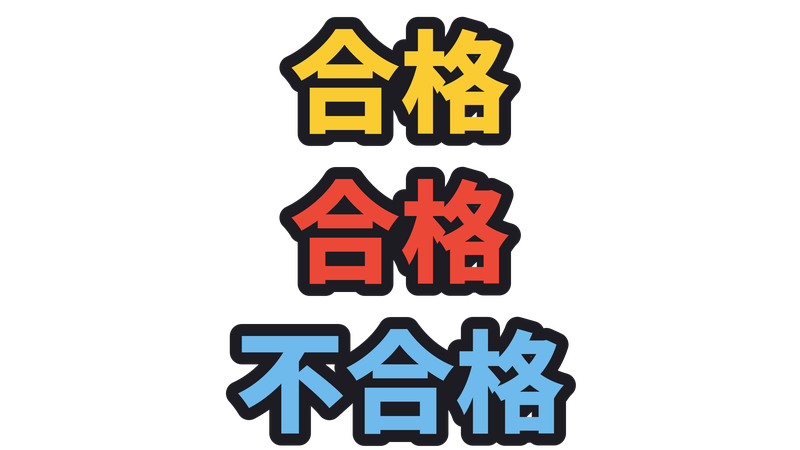
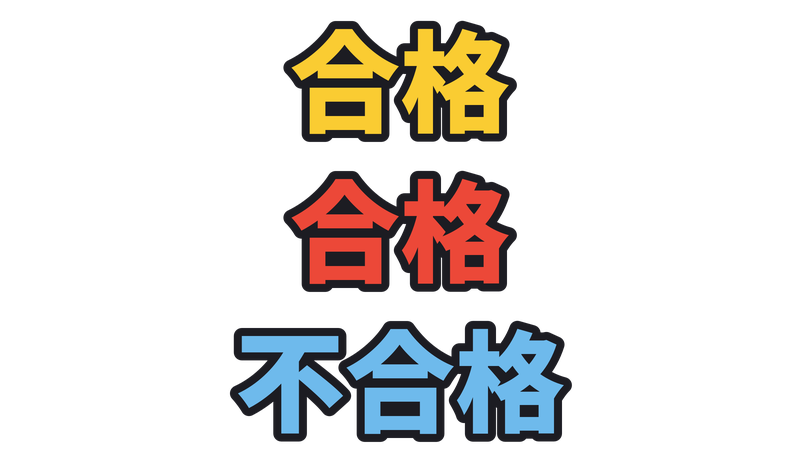
段位道場：文字の縁を本家に合わせて細くする（0.22 → 0.08、ふすまの曲名は 0.1）
本家の六段の動画で、白い字から黒い縁の外がわまでを測りなおした。
条件「346 未満」約0.06倍・バーの数字 約0.055倍・レーンの曲名 約0.095倍。
シンプルの段位の画像（数字・合格・達成失敗・段位道場の札など）の縁も同じくらいに細くした。

Claude-Session: https://claude.ai/code/session_01DAU9tpBiF8CGAJXqk8DqYG

diff --git a/tools/skin-gen/dan.py b/tools/skin-gen/dan.py
@@ -102,7 +102,7 @@ def rainbow_strip(w, h, offset, sat=0.55):
 def song_ball(c, cx, cy, r, k, size=None):
     """1st/2nd/3rd の色玉"""
     c.circle(cx, cy, r, fill=rgba(SONG_COLORS[k]), outline=WHITE, width=max(2, r * 0.1))
-    c.text(cx, cy + 1, ['1st', '2nd', '3rd'][k], size or r * 0.95, fill=WHITE, stroke=max(2, r * 0.12), stroke_fill=INKA)
+    c.text(cx, cy + 1, ['1st', '2nd', '3rd'][k], size or r * 0.95, fill=WHITE, stroke=max(2, r * 0.08), stroke_fill=INKA)
 
 def coin(c, cx, cy, r):
     """条件のコイン(シンプル：黄色い丸に白い点)"""
@@ -146,7 +146,7 @@ def stamps():
             for i in range(8):
                 a = i / 8 * math.tau
                 c.circle(cx + math.cos(a) * 31, 39 + math.sin(a) * 31, 3, fill=hsv(i / 8, 0.6, 1.0))
-        c.text(cx, 40, '合格', 24, fill=rgba(rings[k]), stroke=3, stroke_fill=WHITE)
+        c.text(cx, 40, '合格', 24, fill=rgba(rings[k]), stroke=2, stroke_fill=WHITE)
     c.save(SEL + 'Stamp.png')
 
 def panel():
@@ -335,8 +335,8 @@ def rainbow_digits(rel, w, h, size, stroke):
 def disqualify_text():
     """「達成失敗」972×86 が2つ（大きいバー用・小さいバー用）"""
     c = Canvas(972, 172)
-    c.text(486, 43, '達成失敗', 60, fill=(236, 60, 50, 255), stroke=7, stroke_fill=WHITE)
-    c.text(322, 129, '達成失敗', 60, fill=(236, 60, 50, 255), stroke=7, stroke_fill=WHITE)
+    c.text(486, 43, '達成失敗', 60, fill=(236, 60, 50, 255), stroke=5, stroke_fill=WHITE)
+    c.text(322, 129, '達成失敗', 60, fill=(236, 60, 50, 255), stroke=5, stroke_fill=WHITE)
     c.save(GAME + 'ConditionPanel/Disqualify_Text.png')
 
 def mini_position():
@@ -363,16 +363,16 @@ def course_symbol():
     """左のパネルの「段位道場」マーク 136×136"""
     c = Canvas(136, 136)
     c.poly([(68, 6), (112, 50), (68, 94), (24, 50)], fill=(214, 72, 58, 255), outline=INKA, width=5)
-    c.text(68, 51, '段', 40, fill=WHITE, stroke=4, stroke_fill=INKA)
-    c.text(68, 118, '段位道場', 25, fill=WHITE, stroke=4, stroke_fill=INKA)   # A-Style も絵の下に字が入っている
+    c.text(68, 51, '段', 40, fill=WHITE, stroke=3, stroke_fill=INKA)
+    c.text(68, 118, '段位道場', 25, fill=WHITE, stroke=2, stroke_fill=INKA)   # A-Style も絵の下に字が入っている
     c.save(GAME + 'MiniTaiko/CourseSymbol.png')
 
 def end_text():
     """最後の字 800×150 が3つ：金の合格・赤の合格・不合格"""
     c = Canvas(800, 450)
-    c.text(400, 75, '合格', 110, fill=(250, 204, 50, 255), stroke=12, stroke_fill=INKA)
-    c.text(400, 225, '合格', 110, fill=(236, 72, 56, 255), stroke=12, stroke_fill=INKA)
-    c.text(400, 375, '不合格', 110, fill=(110, 186, 236, 255), stroke=12, stroke_fill=INKA)
+    c.text(400, 75, '合格', 110, fill=(250, 204, 50, 255), stroke=8, stroke_fill=INKA)
+    c.text(400, 225, '合格', 110, fill=(236, 72, 56, 255), stroke=8, stroke_fill=INKA)
+    c.text(400, 375, '不合格', 110, fill=(110, 186, 236, 255), stroke=8, stroke_fill=INKA)
     c.save(GAME + 'End/Text.png')
 
 def screen():
@@ -399,12 +399,14 @@ def screen():
         c2.circle(kx, 97, 17, fill=(150, 118, 62, 255)); c2.circle(kx, 97, 14, fill=(196, 162, 92, 255)); c2.circle(kx, 97, 10, fill=(58, 40, 26, 255))
     c2.save(GAME + 'Screen.png')
 
+# 文字の縁（stroke）は 11/5 に本家の割合（文字の大きさの約0.06〜0.08倍）に合わせて細くした。
+#   本家の六段の動画で、条件「346 未満」は約0.06倍、バーの数字は約0.055倍だった（前は0.1〜0.16倍で太すぎ）
 def dan_screens():
     mini_plates(); plate_effect(); plate_arrow(); stamps(); panel(); panel_side(); song_bars(); course_symbols()
     condition_bar(); gauge_condition_bar(); condition_content(); confirm()
     condition_panel_background(); condition_row_base(); contexts(); mini_contexts(); gauge_bases(); gauge_fills()
-    rainbow_digits(GAME + 'ConditionPanel/Large_Gauge_Number.png', 80, 100, 92, 7)
-    rainbow_digits(GAME + 'ConditionPanel/Mini_Gauge_Number.png', 30, 38, 34, 3)
+    rainbow_digits(GAME + 'ConditionPanel/Large_Gauge_Number.png', 80, 100, 92, 5)
+    rainbow_digits(GAME + 'ConditionPanel/Mini_Gauge_Number.png', 30, 38, 34, 2)
     disqualify_text(); mini_position(); gauge_plate(); course_symbol(); end_text(); screen()
 
 def run():

diff --git a/TaikoSim/UI/MenuDraw.cs b/TaikoSim/UI/MenuDraw.cs
@@ -43,8 +43,14 @@ namespace TaikoSim.UI
         //   (縁が細いと、白い字がうすく・灰色っぽく見える)
         public const float OutlineRatio = 0.16f;
 
-        // 段位道場の画面だけ、縁をもっと太くする(11/5 たけらい。本家の六段の動画で「346 未満」の縁が約0.22倍だった)
-        public const float DanOutlineRatio = 0.22f;
+        // 段位道場の画面の縁（ふだんより細い）
+        //   11/5 たけらい「太すぎ」。本家の六段の動画（2026-11-05_09-32-24.mp4）を、白い字から黒い縁の外がわまでの距離で測りなおした：
+        //     条件「346 未満」(300秒) … 字の高さ50px に縁3px → 文字の大きさの約0.06倍
+        //     バーの数字 … 高さ110px に縁8px → 約0.055倍
+        //     レーンの曲名「MATSURI D/A」(154.5秒) … 大文字の高さ50px に縁6.3px → 約0.095倍（DanTitleOutlineRatio）
+        //   （前に 0.22 にしたのは測りまちがい。縁のまわりのうすい影まで数えていた）
+        public const float DanOutlineRatio = 0.08f;
+        public const float DanTitleOutlineRatio = 0.1f;   // 曲と曲の間に、ふすまの上に出す曲名・作曲者
 
         // 今使っている割合(ふだんは OutlineRatio。段位の画面を描いている間だけ UseOutlineRatio で変える)
         public static float CurrentOutlineRatio { get; private set; } = OutlineRatio;

diff --git a/TaikoSim/Scenes/DanLoading.cs b/TaikoSim/Scenes/DanLoading.cs
@@ -155,7 +155,7 @@ namespace TaikoSim.Scenes
         // シンプル：暗い背景に、うすい横線と段位の名前だけ
         private static void DrawSimple()
         {
-            using OutlineRatioScope outlineScope = UseOutlineRatio(DanOutlineRatio);   // 段位の画面は文字の縁を太く
+            using OutlineRatioScope outlineScope = UseOutlineRatio(DanOutlineRatio);   // 段位の画面は文字の縁を本家に合わせて細く
             Raylib.DrawRectangleGradientV(0, 0, 1920, 1080, new Color(22, 24, 34, 255), new Color(46, 48, 58, 255));
             Raylib.DrawRectangle(0, 538, 1920, 2, new Color(255, 255, 255, 40));
             Centered("段位道場", new Rectangle(0, 400, 1920, 60), 40f, new Color(200, 200, 210, 255));

diff --git a/TaikoSim/Scenes/DanSelectScene.cs b/TaikoSim/Scenes/DanSelectScene.cs
@@ -355,7 +355,7 @@ namespace TaikoSim.Scenes
 
         public override void Draw()
         {
-            using OutlineRatioScope outlineScope = UseOutlineRatio(DanOutlineRatio);   // 段位の画面は文字の縁を太く
+            using OutlineRatioScope outlineScope = UseOutlineRatio(DanOutlineRatio);   // 段位の画面は文字の縁を本家に合わせて細く
             Gui.BeginFrame();
             if (intro != null) intro.Draw(IntroFrame, holdLast: true);   // 入りの演出（終わったら道場の絵のまま）
             else DrawBackground();

diff --git a/TaikoSim/Scenes/DanShutter.cs b/TaikoSim/Scenes/DanShutter.cs
@@ -254,6 +254,7 @@ namespace TaikoSim.Scenes
             float alpha = textElapsed < TextFadeFrom ? 1f : 1f - (textElapsed - TextFadeFrom) / TextFadeSeconds;
             if (alpha <= 0f) return;
             Color fill = Fade(Color.White, alpha), edge = Fade(new Color(20, 20, 24, 255), alpha);
+            using OutlineRatioScope outlineScope = UseOutlineRatio(DanTitleOutlineRatio);   // 本家の曲名は縁が少し太め
             float centerX = (Left + Right) / 2f;
             float width = Right - Left - 200f;
             if (subtitle.Length == 0)

diff --git a/TaikoSim/Scenes/DanResultScene.cs b/TaikoSim/Scenes/DanResultScene.cs
@@ -138,7 +138,7 @@ namespace TaikoSim.Scenes
 
         public override void Draw()
         {
-            using OutlineRatioScope outlineScope = UseOutlineRatio(DanOutlineRatio);   // 段位の画面は文字の縁を太く
+            using OutlineRatioScope outlineScope = UseOutlineRatio(DanOutlineRatio);   // 段位の画面は文字の縁を本家に合わせて細く
             Gui.BeginFrame();
             Raylib.DrawRectangleGradientV(0, 0, Screen.Width, Screen.Height, new Color(40, 70, 130, 255), new Color(20, 36, 80, 255));
 

diff --git a/TaikoSim/Scenes/PlayScene.cs b/TaikoSim/Scenes/PlayScene.cs
@@ -1613,7 +1613,7 @@ namespace TaikoSim.Scenes
 
         public override void Draw()
         {
-            // 段位道場のときは、文字の縁を太くする（MenuDraw.DanOutlineRatio）
+            // 段位道場のときは、文字の縁を本家に合わせて細くする（MenuDraw.DanOutlineRatio）
             using MenuDraw.OutlineRatioScope outlineScope = dan != null ? MenuDraw.UseOutlineRatio(MenuDraw.DanOutlineRatio) : default;
             Raylib.ClearBackground(new Color(24, 26, 36, 255));
 

diff --git a/AGENTS.md b/AGENTS.md
@@ -474,7 +474,9 @@ Measured by overlaying images on frames of the 九段 video (03-04-03 at 20 s, 2
   Condition_Bar, GaugeCondition_Bar, Condition_Content, Challenge_Check/{Panel_Base, Panel, Select_Effect}.
   08.DanGame: ConditionPanel/* (Background, Base, Context, Mini_Context, {Large,Small,Mini}_Gauge(_Base/_Rainbow/_Number), Disqualify_Text, Mini_Gauge_Position),
   Gauge/{Condition_Plate, Condition_Stopper}, MiniTaiko/CourseSymbol, Screen (fusuma), End/Text. Not made: 06 Header, 07.DanLoading (code-drawn), 08 MiniTaiko/Background, 09.DanResult
-- Dan screens draw text with a thicker outline (`MenuDraw.UseOutlineRatio(MenuDraw.DanOutlineRatio)` = 0.22× size vs 0.16 elsewhere; 11/5)
+- Dan screens draw text with a THINNER outline: `MenuDraw.UseOutlineRatio(MenuDraw.DanOutlineRatio)` = 0.08× size (0.16 elsewhere). The lane song title between songs (DanShutter) uses `DanTitleOutlineRatio` = 0.1.
+  Measured 11/5 in video b as distance from the white glyph to the outer edge of the black outline: need text 「346 未満」 ≈ 0.06× font size, bar digits ≈ 0.055×, lane title 「MATSURI D/A」 ≈ 0.095×. (An earlier 0.22 was a mismeasurement; the user said it was far too thick.)
+  Simple dan images in tools/skin-gen/dan.py follow the same idea: PIL stroke ≈ 0.055–0.08× font size (Large digits size 92 stroke 5, Mini 34 stroke 2, End text 110 stroke 8).
 - Code-drawn panel (no A-Style): plate `PlateX 1560, PlateY 560, W 230, H 485`; top-left counter (良・可・不可・連打数) box (28, 98) 212×128,
   labels 21 px, numbers 27 px (enlarged 11/5; たけらい said the numbers were too small)
 
